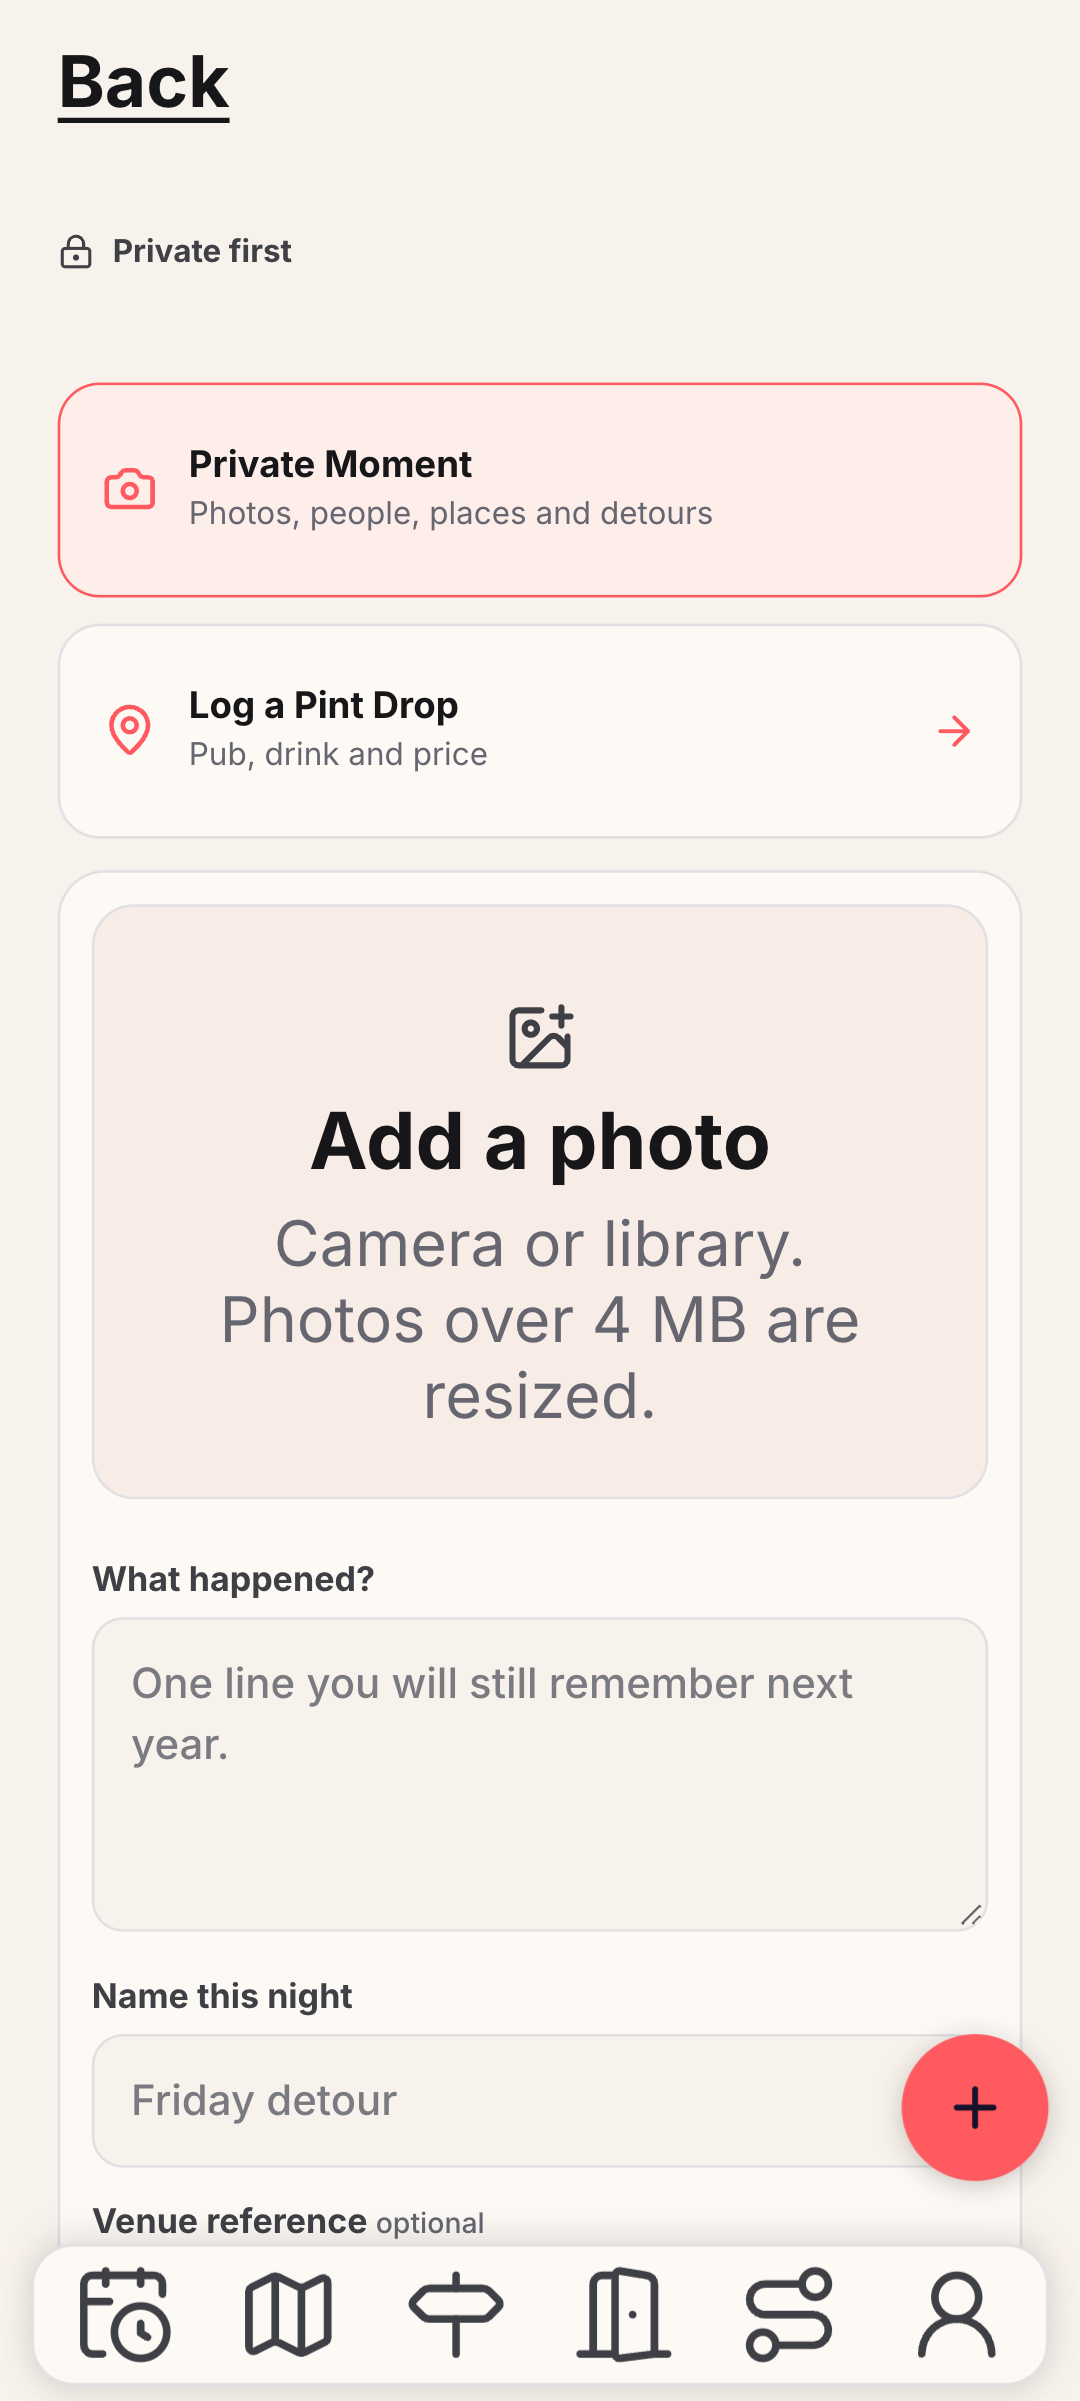
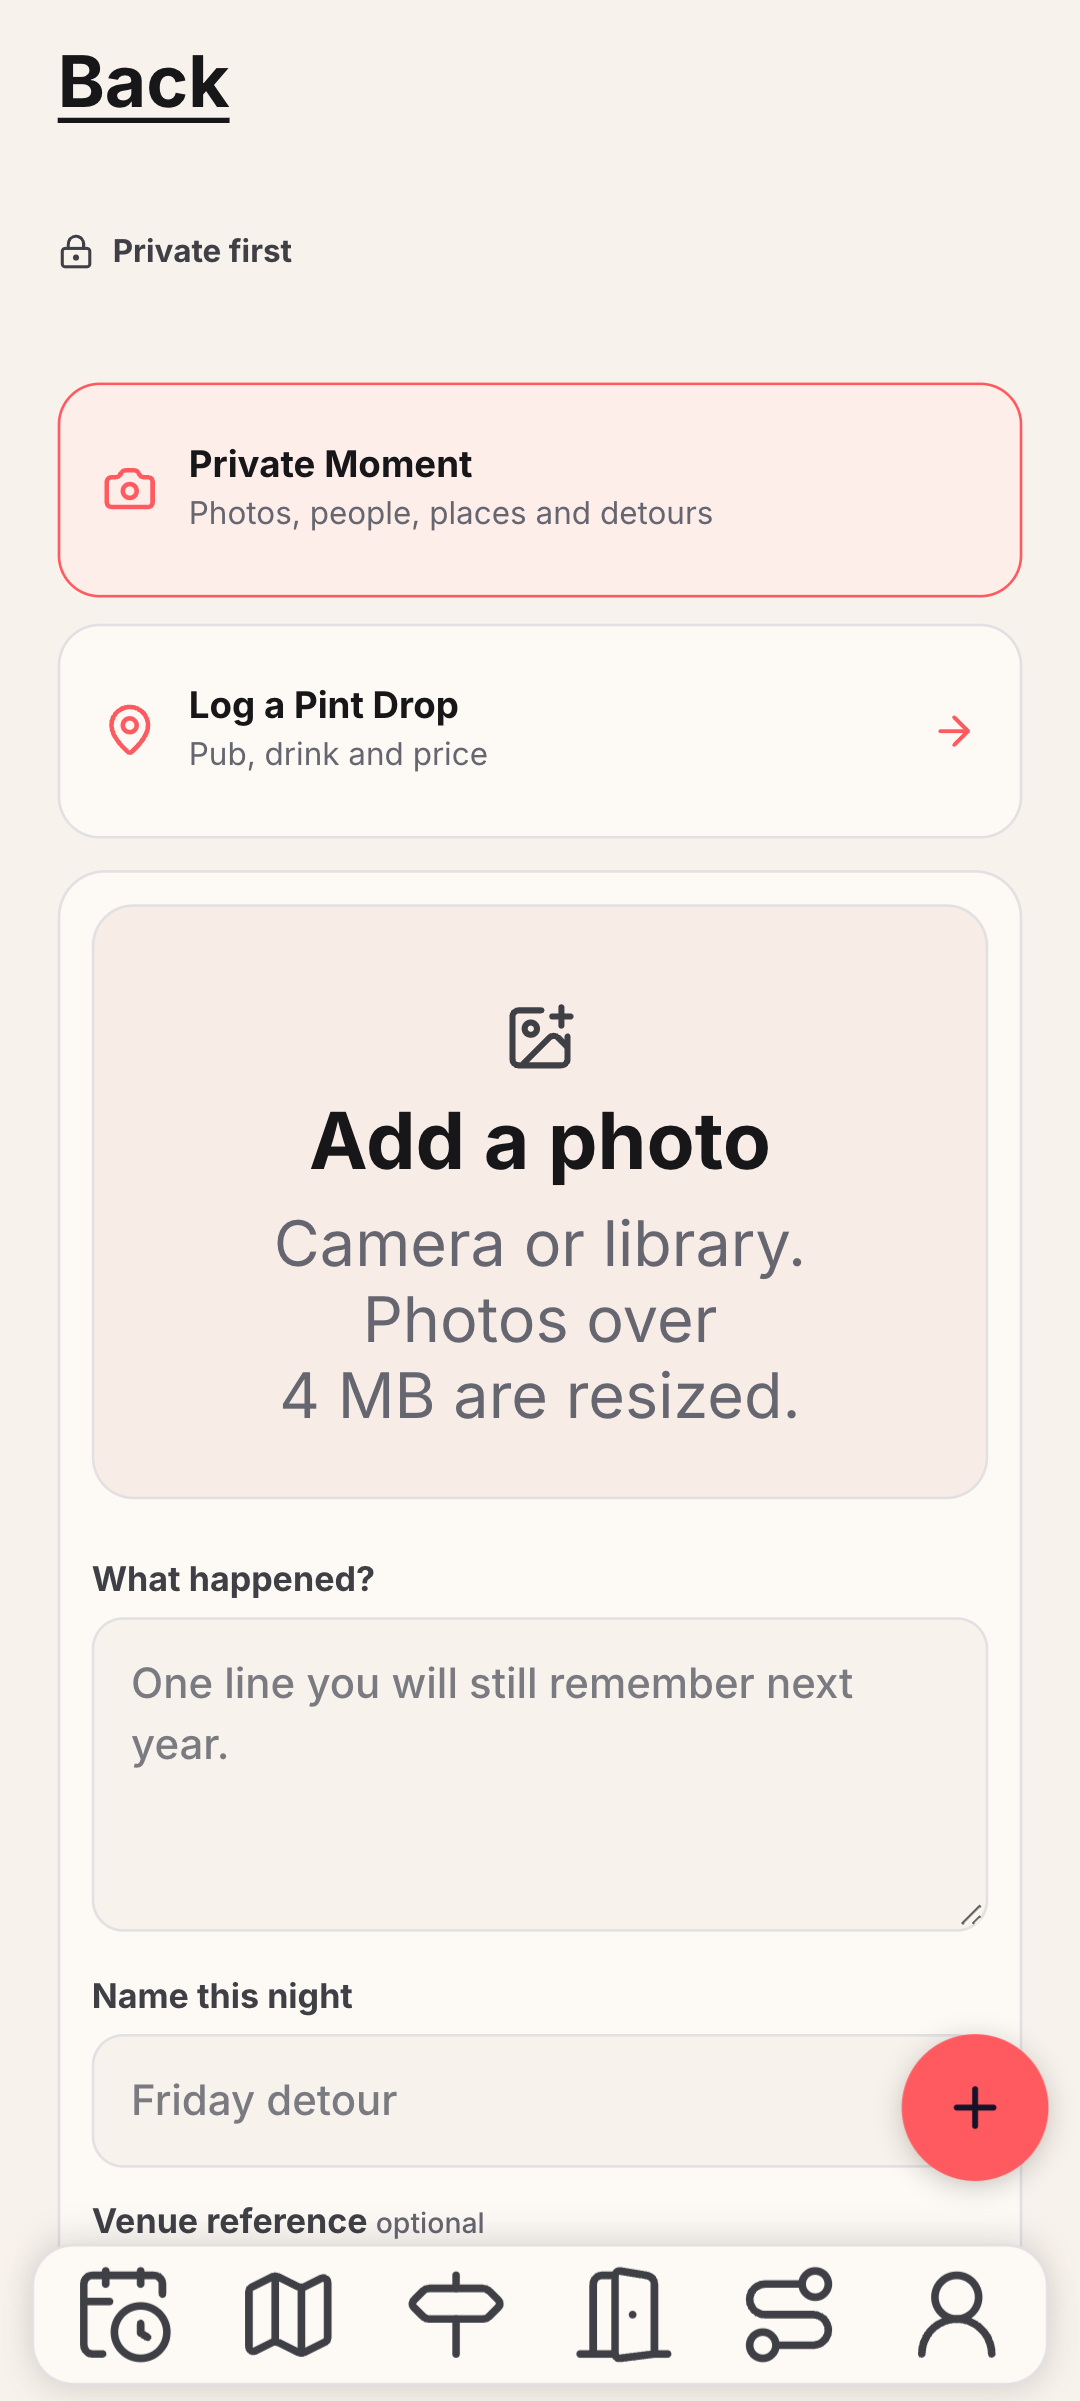
no-mistakes(review): Balance picker hint lines, match day-chip corners, real wrap test

Changed region(s): [[0.1833, 0.531, 0.7944, 0.5935]]

diff --git a/e2e/mobile-large-text.spec.ts b/e2e/mobile-large-text.spec.ts
@@ -71,9 +71,16 @@ for (const scale of [1.3, 1.5, 2]) {
       document.documentElement.style.fontSize = `${fontScale * 100}%`;
       document.documentElement.setAttribute("data-text-scale", "large");
     }, scale);
+    const applyScale = async () => {
+      await page.evaluate((fontScale) => {
+        document.documentElement.style.fontSize = `${fontScale * 100}%`;
+        document.documentElement.setAttribute("data-text-scale", "large");
+      }, scale);
+      await page.evaluate(() => document.fonts.ready);
+    };
     await page.goto("/out");
     await expect(page.locator(".outDayChip")).toHaveCount(3);
-    await page.evaluate(() => document.fonts.ready);
+    await applyScale();
     const chips = await page.locator(".outDayChip").evaluateAll((elements) => elements.map((element) => {
       const range = document.createRange();
       range.selectNodeContents(element);
@@ -85,7 +92,11 @@ for (const scale of [1.3, 1.5, 2]) {
     await page.goto("/moment");
     const hint = page.locator(".momentMediaPickerLine").filter({ hasText: "MB" });
     await expect(hint).toHaveCount(1);
+    await applyScale();
     const figure = await hint.evaluate((element) => {
+      const lineCount = (range: Range) => new Set([...range.getClientRects()].map((box) => Math.round(box.top))).size;
+      const whole = document.createRange();
+      whole.selectNodeContents(element);
       const walker = document.createTreeWalker(element, NodeFilter.SHOW_TEXT);
       for (let node = walker.nextNode(); node; node = walker.nextNode()) {
         const match = /\d+(?:\.\d)?\s*MB/.exec(node.textContent ?? "");
@@ -93,12 +104,12 @@ for (const scale of [1.3, 1.5, 2]) {
         const range = document.createRange();
         range.setStart(node, match.index);
         range.setEnd(node, match.index + match[0].length);
-        const lines = new Set([...range.getClientRects()].map((box) => Math.round(box.top))).size;
-        return { text: match[0], lines };
+        return { text: match[0], lines: lineCount(range), hintLines: lineCount(whole) };
       }
       return null;
     });
-    expect(figure).toEqual({ text: "4\u00a0MB", lines: 1 });
+    expect(figure).toMatchObject({ text: "4\u00a0MB", lines: 1 });
+    if (scale === 2) expect(figure!.hintLines).toBeGreaterThan(1);
   });
 }
 

diff --git a/lib/momentPhotoIntake.ts b/lib/momentPhotoIntake.ts
@@ -31,7 +31,7 @@
 import { detectImageKind } from "@/lib/imageSafety";
 import { MOMENT_PHOTO_TYPES } from "@/lib/momentPhotoEditor";
 import { isLikelyHeic } from "@/lib/profileImagePicker";
-import { UPLOAD_PHOTO_MAX_BYTES, UPLOAD_PHOTO_MAX_LABEL } from "@/lib/uploadBodyLimit";
+import { UPLOAD_PHOTO_MAX_BYTES, UPLOAD_PHOTO_MAX_LABEL, uploadPhotoSizeLabel } from "@/lib/uploadBodyLimit";
 
 /** The most the composer will try to open. Above this a phone is not the source. */
 export const MOMENT_PICK_MAX_BYTES = 30 * 1024 * 1024;
@@ -126,7 +126,7 @@ export function momentPickerHint(isPhone: boolean): readonly string[] {
 }
 
 export function momentPhotoTooLargeLine(): string {
-  return `That photo is over ${Math.round(MOMENT_PICK_MAX_BYTES / (1024 * 1024))} MB. Choose a smaller one.`;
+  return `That photo is over ${uploadPhotoSizeLabel(MOMENT_PICK_MAX_BYTES)}. Choose a smaller one.`;
 }
 
 export const MOMENT_PHOTO_FIT_FAILED_LINE =

diff --git a/components/moment/moment.css b/components/moment/moment.css
@@ -140,9 +140,9 @@
   text-align: center;
 }
 .momentMediaPicker:hover { border-color: color-mix(in srgb, var(--brass) 55%, var(--line)); background: color-mix(in srgb, var(--brass) 8%, var(--paper)); }
-.momentMediaPicker strong { color: var(--ink); font-size: 15px; }
-.momentMediaPicker span { color: var(--muted); font-size: 12px; max-width: 30ch; text-align: center; }
-.momentMediaPickerLine { text-wrap: balance; }
+.momentMediaPicker strong { color: var(--ink); font-size: 0.9375rem; }
+.momentMediaPicker span { color: var(--muted); font-size: 0.75rem; max-width: 30ch; text-align: center; }
+.momentMediaPickerLine { display: block; text-wrap: balance; }
 .momentMediaPicker input { position: absolute; width: 1px; height: 1px; overflow: hidden; clip: rect(0 0 0 0); clip-path: inset(50%); }
 
 /* Desktop drag-drop affordance (D1.4). Phone keeps the quieter picker. */

diff --git a/app/out/out.css b/app/out/out.css
@@ -62,9 +62,9 @@
   text-decoration: none;
 }
 
-/* At a large phone text size the three days stop sharing one row. Each chip
-   keeps its word whole and wraps to a new row instead, and the frame stops
-   being a pill once it holds more than one row. */
+/* At a large phone text size a day may wrap onto a new row rather than split
+   its word. The frame and the chips then share one rounded-rectangle corner,
+   inset by the frame's 2px padding, so one row and several rows read alike. */
 html[data-text-scale="large"] .outDayChips {
   display: flex;
   flex-wrap: wrap;
@@ -73,6 +73,7 @@ html[data-text-scale="large"] .outDayChips {
 
 html[data-text-scale="large"] .outDayChip {
   flex: 1 1 auto;
+  border-radius: calc(var(--radius-lg) - 2px);
 }
 
 .outDayChip[aria-current="page"] {

diff --git a/__tests__/momentPhotoIntake.test.ts b/__tests__/momentPhotoIntake.test.ts
@@ -176,7 +176,7 @@ describe("the composer's own words carry the real number", () => {
   });
 
   it("in every refusal about size", () => {
-    expect(momentPhotoTooLargeLine()).toContain(`${MOMENT_PICK_MAX_BYTES / MB} MB`);
+    expect(momentPhotoTooLargeLine()).toContain(`${MOMENT_PICK_MAX_BYTES / MB}\u00a0MB`);
     expect(MOMENT_PHOTO_FIT_FAILED_LINE).toContain(UPLOAD_PHOTO_MAX_LABEL);
     expect(momentPhotoStillTooLargeLine("night.jpg")).toContain("night.jpg");
     expect(momentPhotoStillTooLargeLine("night.jpg")).toContain(UPLOAD_PHOTO_MAX_LABEL);

diff --git a/components/moment/MomentCapture.tsx b/components/moment/MomentCapture.tsx
@@ -664,9 +664,8 @@ export default function MomentCapture(): React.JSX.Element {
                 )}
                 <strong>{pickerPrimary}</strong>
                 <span>
-                  {pickerSecondary.map((line, index) => (
+                  {pickerSecondary.map((line) => (
                     <span className="momentMediaPickerLine" key={line}>
-                      {index > 0 ? <br /> : null}
                       {line}
                     </span>
                   ))}

diff --git a/docs/proof/android-large-text/README.md b/docs/proof/android-large-text/README.md
@@ -20,8 +20,8 @@ The routes are `/tonight`, `/places`, `/out`, `/plan`, `/u/qa_android`, `/map`, 
 | --- | --- | --- | --- |
 | Owner profile | 588px | 412px | Action minimum widths and content-sized grids now fit the available width. Stats and profile tabs adapt to large text. |
 | Places | 538px | 412px | The search grid now permits its input to shrink. |
-| Out | 466px | 412px | At large text sizes the day chips wrap onto new rows. Each day name stays whole. |
-| Moment | 425px | 412px | The photo-picker grid shrinks and its guidance wraps. A no-break space keeps "4 MB" on one line. |
+| Out | 466px | 412px | At large text sizes the day chips wrap onto new rows. Each day name stays whole. The frame and chips share one corner radius on one row or several. |
+| Moment | 425px | 412px | The photo-picker grid shrinks. Each guidance line wraps as a balanced block, and a no-break space keeps "4 MB" together. The picker type is set in rem, so it follows the text size. |
 
 | Before | After |
 | --- | --- |
@@ -32,7 +32,7 @@ The routes are `/tonight`, `/places`, `/out`, `/plan`, `/u/qa_android`, `/map`, 
 
 The Out after shot and the [Moment picker after shot](moment-picker-after.png) come from the review round.
 No Android emulator was available for that round, so both are Chromium captures with the Android native-shell stub at 412px and scale 2.0.
-Chromium has no WebView text zoom, so the picker capture doubles the picker's pixel-sized text by hand.
+Each capture sets the root font size to 200% and `data-text-scale="large"` after the page loads. No page style was changed by hand.
 
 ## Controls and type
 
@@ -54,6 +54,7 @@ The [profile at scale 1.5](profile-1.5-after.png) also shows equal action height
 
 `e2e/mobile-large-text.spec.ts` checks 30 route and scale combinations, three word-integrity cases, six owner-profile layouts, touch targets, and five small-text routes.
 The word-integrity cases check that each day chip and the photo-size figure stay on one line at scales 1.3, 1.5, and 2.0.
+At scale 2.0 the case also requires the photo-size hint to wrap, so the figure check runs on a real wrapped line.
 The touch test checks all ten visible header and tab controls and both checkbox label targets.
 It opens Filters and toggles Saved only through the rendered controls.
 
